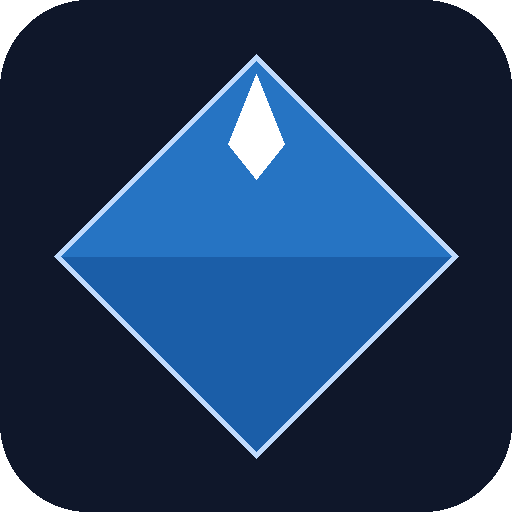
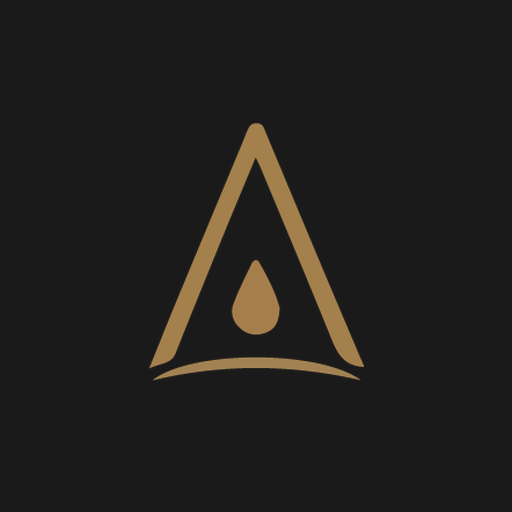
feat: replace LUCID HR branding with JE BAR identity
- favicon/app icon: ใช้ brand mark สามเหลี่ยมทอง crop จากโลโก้จริง
  (icon-512, favicon-32/48, apple-touch-icon) บนพื้นเข้ม
- manifest: ชื่อ LUCID HR → JE BAR, theme เข้ม
- index.html: เปลี่ยน favicon เป็น PNG (เลิกใช้ไอคอนเพชรเดิม)
- หน้า login / RolePicker / AdminShell: โลโก้เพชร+ข้อความ "LUCID HR"
  → wordmark JE BAR จริง (/jebar-logo.png)
- สลิปเงินเดือน + ใบสรุปสต็อก: ข้อความ LUCID HR → JE BAR
- bump version v123

Claude-Session: https://claude.ai/code/session_01LaHcaU7vDTBH75Lvo1EJBk

diff --git a/app/src/pages/AdminLogin.jsx b/app/src/pages/AdminLogin.jsx
@@ -1,7 +1,6 @@
 import { useState } from 'react';
 import { useNavigate } from 'react-router-dom';
 import { useAuthStore } from '../store/authStore';
-import diamond from '../assets/lucid-diamond.svg';
 
 export default function AdminLogin() {
   const [email, setEmail] = useState('');
@@ -28,12 +27,9 @@ export default function AdminLogin() {
   return (
     <div style={{ minHeight: '100vh', display: 'flex', alignItems: 'center', justifyContent: 'center', padding: 24 }}>
       <div className="card" style={{ width: '100%', maxWidth: 400, padding: 32 }}>
-        <div style={{ display: 'flex', alignItems: 'center', gap: 12, marginBottom: 28 }}>
-          <img src={diamond} alt="LUCID HR" style={{ height: 40 }} />
-          <div>
-            <div style={{ fontWeight: 800, fontSize: 16, letterSpacing: '-.2px' }}>LUCID HR</div>
-            <div style={{ color: 'var(--muted)', fontSize: 13 }}>เข้าสู่ระบบแอดมิน</div>
-          </div>
+        <div style={{ display: 'flex', flexDirection: 'column', alignItems: 'center', gap: 8, marginBottom: 28 }}>
+          <img src="/jebar-logo.png" alt="JE BAR" style={{ maxWidth: 180, width: '60%', height: 'auto' }} />
+          <div style={{ color: 'var(--muted)', fontSize: 13 }}>เข้าสู่ระบบแอดมิน</div>
         </div>
         <form onSubmit={submit} style={{ display: 'flex', flexDirection: 'column', gap: 14 }}>
           <div>

diff --git a/app/src/pages/admin/AdminShell.jsx b/app/src/pages/admin/AdminShell.jsx
@@ -2,7 +2,6 @@
 import { Routes, Route, NavLink, useLocation } from 'react-router-dom';
 import { useAuthStore } from '../../store/authStore';
 import { supabase } from '../../lib/supabase';
-import diamond from '../../assets/lucid-diamond.svg';
 import { APP_VERSION } from '../../lib/version';
 import AdminDashboard from './AdminDashboard';
 import AdminEmployees from './AdminEmployees';
@@ -101,8 +100,7 @@ export default function AdminShell() {
       <div className="admin-topbar">
         <button className="admin-menu-btn" onClick={() => setSidebarOpen(true)} aria-label="เปิดเมนู">☰</button>
         <div style={{ display: 'flex', alignItems: 'center', gap: 8 }}>
-          <img src={diamond} alt="LUCID HR" style={{ height: 26 }} />
-          <span style={{ fontWeight: 800, fontSize: 15, letterSpacing: '-.3px', color: 'var(--ink)' }}>LUCID HR</span>
+          <img src="/jebar-logo.png" alt="JE BAR" style={{ height: 22, width: 'auto' }} />
         </div>
       </div>
       {sidebarOpen && <button className="admin-sidebar-overlay" onClick={closeSidebar} aria-label="ปิดเมนู" />}
@@ -110,11 +108,7 @@ export default function AdminShell() {
         <div style={{ padding: '20px 20px 16px', borderBottom: '1px solid var(--line)', display: 'flex', alignItems: 'flex-start', justifyContent: 'space-between', gap: 12 }}>
           <div>
             <div style={{ display: 'flex', alignItems: 'center', gap: 10 }}>
-              <img src={diamond} alt="LUCID HR" style={{ height: 36 }} />
-              <div>
-                <div style={{ fontWeight: 800, fontSize: 18, letterSpacing: '-.3px', color: 'var(--ink)', lineHeight: 1 }}>LUCID HR</div>
-                <div style={{ fontSize: 10, fontWeight: 600, color: 'var(--muted)', letterSpacing: '1.5px', marginTop: 3 }}>HUMAN RESOURCE</div>
-              </div>
+              <img src="/jebar-logo.png" alt="JE BAR" style={{ height: 30, width: 'auto' }} />
             </div>
             <div style={{ fontSize: 12, color: 'var(--muted)', marginTop: 6 }}>แอดมิน</div>
           </div>

diff --git a/app/index.html b/app/index.html
@@ -2,12 +2,13 @@
 <html lang="th">
   <head>
     <meta charset="UTF-8" />
-    <link rel="icon" type="image/svg+xml" href="/favicon.svg" />
+    <link rel="icon" type="image/png" sizes="32x32" href="/favicon-32.png" />
+    <link rel="icon" type="image/png" sizes="48x48" href="/favicon-48.png" />
     <link rel="icon" type="image/png" sizes="512x512" href="/icon-512.png" />
-    <link rel="apple-touch-icon" href="/icon-512.png" />
+    <link rel="apple-touch-icon" href="/apple-touch-icon.png" />
     <link rel="manifest" href="/manifest.json" />
     <meta name="viewport" content="width=device-width, initial-scale=1.0, viewport-fit=cover" />
-    <meta name="theme-color" content="#1B5EA8" />
+    <meta name="theme-color" content="#1a1a1a" />
     <title>JE BAR</title>
     <meta property="og:title" content="JE BAR — สั่งขนม" />
     <meta property="og:description" content="เลือกขนมสดจากร้าน JE BAR Coffee &amp; Pastry" />

diff --git a/app/src/pages/RolePicker.jsx b/app/src/pages/RolePicker.jsx
@@ -1,5 +1,4 @@
 import { useNavigate } from 'react-router-dom';
-import diamond from '../assets/lucid-diamond.svg';
 
 export default function RolePicker() {
   const nav = useNavigate();
@@ -7,10 +6,9 @@ export default function RolePicker() {
   return (
     <div style={{ minHeight: '100vh', display: 'flex', flexDirection: 'column', alignItems: 'center', justifyContent: 'center', gap: 32, padding: 24 }}>
       <div style={{ display: 'flex', flexDirection: 'column', alignItems: 'center', gap: 12 }}>
-        <img src={diamond} alt="LUCID HR" style={{ height: 72 }} />
+        <img src="/jebar-logo.png" alt="JE BAR" style={{ maxWidth: 240, width: '70vw', height: 'auto' }} />
         <div style={{ textAlign: 'center' }}>
-          <div style={{ fontSize: 28, fontWeight: 800, color: 'var(--ink)', letterSpacing: '-.5px', lineHeight: 1 }}>LUCID HR</div>
-          <div style={{ fontSize: 11, fontWeight: 600, color: 'var(--muted)', letterSpacing: '2px', marginTop: 4 }}>HUMAN RESOURCE PLATFORM</div>
+          <div style={{ fontSize: 11, fontWeight: 600, color: 'var(--muted)', letterSpacing: '2px', marginTop: 4 }}>STAFF & STORE PLATFORM</div>
         </div>
       </div>
       <div style={{ textAlign: 'center' }}>

diff --git a/app/src/pages/admin/AdminPayroll.jsx b/app/src/pages/admin/AdminPayroll.jsx
@@ -237,7 +237,7 @@ export default function AdminPayroll() {
     } else {
       ctx.fillStyle = '#2f302e';
       ctx.font = '700 38px sans-serif';
-      ctx.fillText('LUCID', 132, 148);
+      ctx.fillText('JE BAR', 132, 148);
     }
 
     ctx.fillStyle = '#ffffff';
@@ -294,7 +294,7 @@ export default function AdminPayroll() {
     ctx.font = '400 18px sans-serif';
     ctx.fillText(`สร้างเมื่อ ${new Date().toLocaleString('th-TH')}`, 100, 1060);
     ctx.textAlign = 'right';
-    ctx.fillText('LUCID HR', 800, 1060);
+    ctx.fillText('JE BAR', 800, 1060);
     ctx.textAlign = 'left';
 
     const a = document.createElement('a');

diff --git a/app/src/pages/employee/EmpPay.jsx b/app/src/pages/employee/EmpPay.jsx
@@ -59,7 +59,7 @@ async function generatePaySlip({ employee, branch, pay, payRange, settings }) {
   ctx.fill();
   ctx.fillStyle = '#0f172a';
   ctx.font = '800 38px sans-serif';
-  ctx.fillText('LUCID HR', 130, 148);
+  ctx.fillText('JE BAR', 130, 148);
 
   ctx.fillStyle = '#ffffff';
   ctx.font = '700 30px sans-serif';
@@ -115,7 +115,7 @@ async function generatePaySlip({ employee, branch, pay, payRange, settings }) {
   ctx.font = '400 18px sans-serif';
   ctx.fillText(`สร้างเมื่อ ${new Date().toLocaleString('th-TH')}`, 100, 1060);
   ctx.textAlign = 'right';
-  ctx.fillText('LUCID HR', 800, 1060);
+  ctx.fillText('JE BAR', 800, 1060);
   ctx.textAlign = 'left';
 
   return canvas.toDataURL('image/png');

diff --git a/app/src/pages/EmpLogin.jsx b/app/src/pages/EmpLogin.jsx
@@ -2,7 +2,6 @@ import { useState, useCallback, useEffect, useRef } from 'react';
 import { useNavigate } from 'react-router-dom';
 import { useAuthStore } from '../store/authStore';
 import { supabase } from '../lib/supabase';
-import diamond from '../assets/lucid-diamond.svg';
 
 function Avatar({ emp }) {
   const displayName = emp.nickname || emp.name || 'พนักงาน';
@@ -120,7 +119,7 @@ export default function EmpLogin() {
     return (
       <div style={{ minHeight: '100vh', padding: 24, maxWidth: 480, margin: '0 auto' }}>
         <div style={{ display: 'flex', alignItems: 'center', gap: 12, marginTop: 24, marginBottom: 28 }}>
-          <img src={diamond} alt="LUCID HR" style={{ height: 36 }} />
+          <img src="/jebar-logo.png" alt="JE BAR" style={{ height: 28, width: 'auto' }} />
           <span style={{ fontWeight: 700, fontSize: 16 }}>เลือกบัญชีของคุณ</span>
         </div>
         <div style={{ display: 'flex', flexDirection: 'column', gap: 10 }}>

diff --git a/app/src/lib/version.js b/app/src/lib/version.js
@@ -1,1 +1,1 @@
-export const APP_VERSION = 'Build 2026.06.26-clean-v122';
+export const APP_VERSION = 'Build 2026.06.26-jebar-branding-v123';

diff --git a/app/src/pages/employee/CakeStockPage.jsx b/app/src/pages/employee/CakeStockPage.jsx
@@ -136,7 +136,7 @@ function drawExport(canvas, { items, stockMap, spoiledMap, branchName, empName }
   ctx.font = F(13, true);
   ctx.textAlign = 'center';
   const totalQty = items.reduce((s, i) => s + (stockMap[i.id] || 0), 0);
-  ctx.fillText(`รวม ${totalQty} ชิ้น  |  เสีย ${totalSpoiled} ชิ้น  |  Generated by LUCID HR · JE BAR`, W / 2, fy + 42);
+  ctx.fillText(`รวม ${totalQty} ชิ้น  |  เสีย ${totalSpoiled} ชิ้น  |  JE BAR`, W / 2, fy + 42);
 }
 
 async function exportToImage({ items, stockMap, spoiledMap, branchName, empName }) {